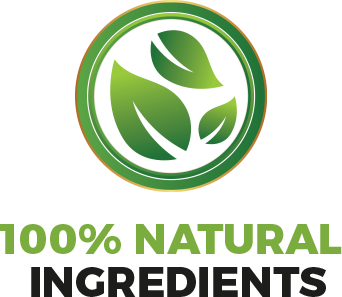
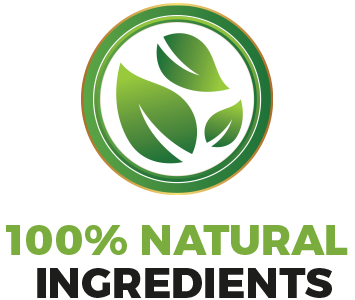
home page mobile response wallahi

diff --git a/index.html b/index.html
@@ -117,13 +117,13 @@
     <!-- Features Section -->
     <section class="features">
         <div class="feature">
-            <img class="madekuwait" src="images/proudlymadeinkuwait.jpeg" alt="Proudly Made in Kuwait">
+            <img class="madekuwait" src="images/madeinkuwait.png" alt="Proudly Made in Kuwait">
         </div>
         <div class="feature iso">
-            <img src="images/iso.jpeg" alt="ISO 22000 Certified">
+            <img src="images/iso.png" alt="ISO 22000 Certified">
         </div>
         <div class="feature">
-            <img class="natural" src="images/natural.jpeg" alt="100% Natural Ingredients">
+            <img class="natural" src="images/natural.png" alt="100% Natural Ingredients">
         </div>
     </section>
 

diff --git a/styles.css b/styles.css
@@ -34,7 +34,7 @@
     color: #fff;
     transition: opacity 1.5s ease; 
     overflow: hidden;
-    width: 2000px;
+    width: auto;
   }
 
   
